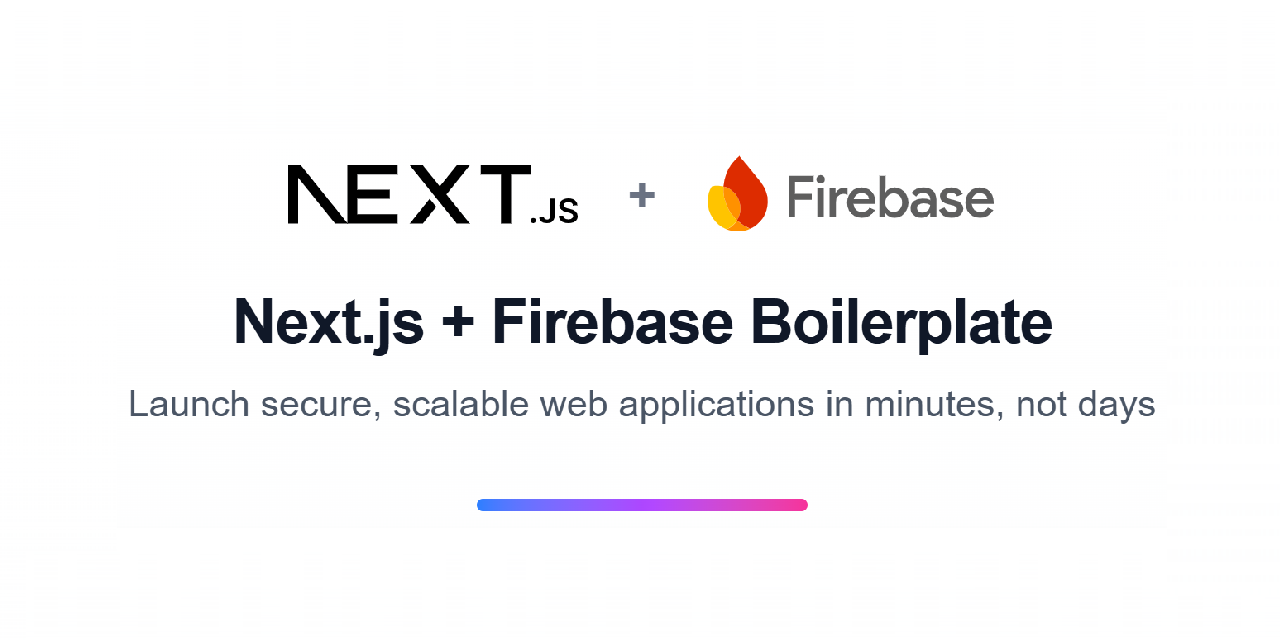
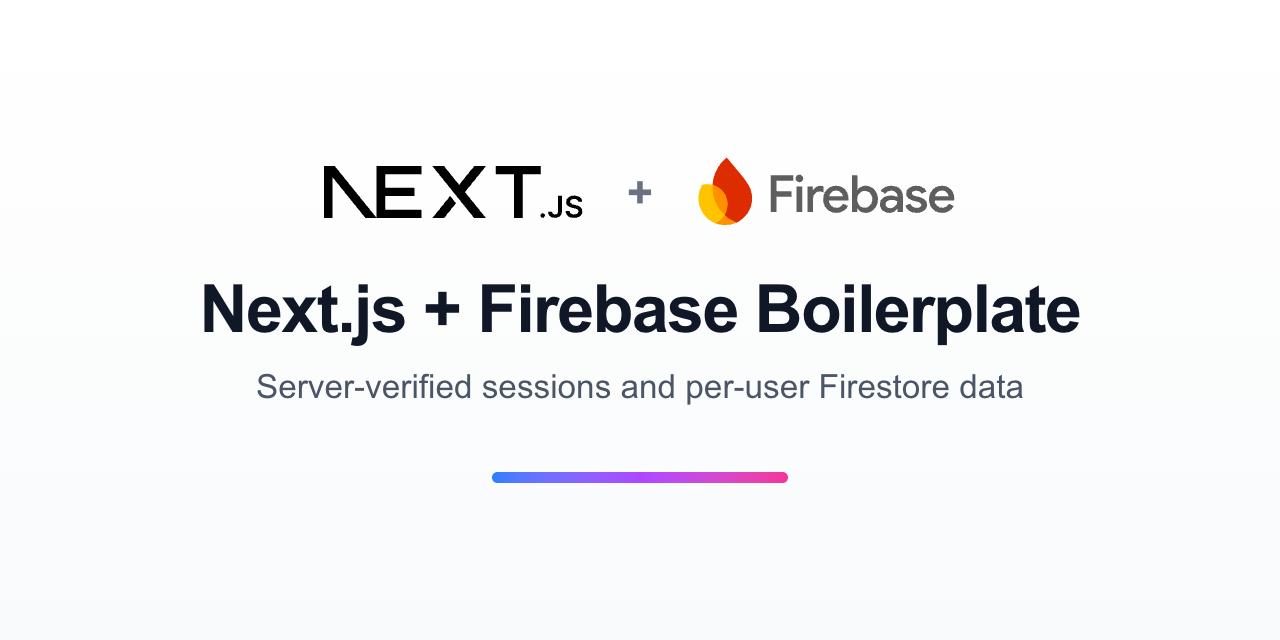
docs(projects): rewrite nextjs-firebase-boilerplate for the server-side Firebase design
The repo added Firestore notes, session hardening, tests and CI in August
and dropped "production-ready". The card image is the regenerated banner,
replacing one with the retired tagline.

diff --git a/_projects/nextjs-firebase-boilerplate.md b/_projects/nextjs-firebase-boilerplate.md
@@ -1,8 +1,8 @@
 ---
 layout: project
 title: "Next.js Firebase Boilerplate"
-description: "Production-ready starter for Next.js + Firebase with server-side auth, TypeScript, and reusable app scaffolding."
-tech_stack: ["Next.js 16", "React 19", "TypeScript", "Firebase Auth", "Tailwind CSS 4"]
+description: "A Next.js + Firebase starter where the server does the Firebase work: session cookies verified by the Admin SDK, and per-user Firestore data."
+tech_stack: ["Next.js", "Firebase Admin SDK", "Firebase Auth", "Firestore", "TypeScript", "Vitest", "Tailwind CSS"]
 github_url: "https://github.com/zeikar/nextjs-firebase-boilerplate"
 demo_url: "https://nextjs-firebase-starter.vercel.app/"
 image: "/assets/images/projects/nextjs-firebase-boilerplate.png"
@@ -10,13 +10,27 @@ sequence: 10
 gadget_no: 7
 ---
 
-A Next.js + Firebase starter that ships the part everyone re-implements from scratch: real server-side authentication. The point is to skip straight to building features instead of re-wiring Firebase auth on every new project.
+The auth flows come already built: Google and anonymous sign-in, anonymous-to-Google upgrade, account deletion, and a small per-user notes demo. Most Next.js + Firebase starters authenticate in the browser. This one keeps the Admin credentials and the checks on the server.
 
-## What you get on day one
+## The server does the Firebase work
 
-- **Server-side auth** — sessions verified with the Firebase Admin SDK, not just client-side checks
-- **The full account lifecycle** — Google and anonymous sign-in, anonymous→Google upgrade, and account deletion
-- **The boring-but-needed bits** — a notification system, an auth modal, reusable components, SEO defaults, and a Vercel-ready deploy
-- **Type-safe throughout** — TypeScript + Tailwind, structured so you extend it rather than fight it
+Sign-in starts in the Firebase client SDK, but the ID token is exchanged once for a two-week `httpOnly` session cookie. Server components and route handlers verify that cookie with the Admin SDK, and the page reads the current user on the server.
 
-The trickiest thing it documents isn't code — it's the Firebase env setup. The Admin and Web SDK configs have to be supplied as single-line JSON with the `private_key` newlines escaped, which is exactly the kind of silent-failure trap that eats an afternoon. The starter spells it out so you don't rediscover it the hard way.
+Firestore follows the same line. Notes live at `users/{uid}/notes`, read by a server component and written through a route handler, and the uid always comes from the verified cookie, never from the request. The client never imports `firebase/firestore`, and `firestore.rules` denies every client read and write. The Admin SDK bypasses rules, so they only start to matter if client-side access is ever added.
+
+A Firestore read that fails with a transient error, such as the service being unavailable, replaces only the notes panel with an "unavailable" line. Anything else, like a database that was never created, fails the whole page, so a setup mistake can't hide.
+
+## Session hardening
+
+The auth routes assume a hostile caller:
+
+- **Same-origin only.** State-changing routes reject a foreign `Origin`, and those that take a body also require a JSON content type, which blocks a cross-site form posting `text/plain`.
+- **Fresh sign-ins only.** A new session cookie needs a sign-in from the last five minutes, unless the browser already holds that user's session, so a leaked ID token can't be traded for a two-week session.
+- **Sign-out ends every session.** Firebase can't revoke a single session cookie, so sign-out revokes the user's refresh tokens, and a copied cookie stops working.
+- **Deletion re-authenticates.** Deleting through the Admin SDK skips Firebase's recent-login check, so deletion also needs a freshly minted ID token. It then removes the user's notes and reports it if that fails.
+
+Vitest covers the route handlers with the Admin SDK mocked, and the hooks and components under jsdom. CI runs lint, the tests, and a production build with a throwaway key, so forks build without secrets.
+
+## The credential trap
+
+Both Firebase configs go into environment variables as JSON on a single physical line. That doesn't mean deleting every `\n`: the `\n` escapes inside `private_key` are part of the key and have to survive. `jq -c` on the downloaded key file produces the right shape.
